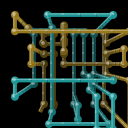
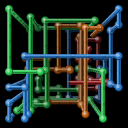
3d_pipes: brighter front pipes, new pipes until 50% full and fade between when starting fresh

diff --git a/3d_pipes/__init__.py b/3d_pipes/__init__.py
@@ -19,12 +19,27 @@ yaw_cos = math.cos(math.radians(yaw))
 pitch_sin = math.sin(math.radians(pitch))
 pitch_cos = math.cos(math.radians(pitch))
 
-SIZE = grid
 centre = (grid - 1) / 2
 NUM_PIPES = 2
 
-cx = screen.width / 2
-cy = screen.height / 2
+# how far the front and back of the grid are from the camera, for dimming
+near_depth = cam_dist - centre
+far_depth = cam_dist + centre
+FRONT_BRIGHTNESS = 0.8  # nearest pipes
+BACK_BRIGHTNESS = 0.28  # furthest pipes
+SHADOW_BRIGHTNESS = 0.5  # shadow edge, as a share of the pipe's own brightness
+
+FULL_CELLS = int(grid ** 3 * 0.5)  # fade out and start again once this many cells are used
+FADE_MS = 1000
+FADE_PEN = color.rgb(0, 0, 0, 40)  # drawn over the last frame each step, so it builds up
+fade_started = None  # ticks_ms when the fade began, None while pipes are growing
+
+screen_centre_x = screen.width / 2
+screen_centre_y = screen.height / 2
+
+TURN_ODDS = 6  # one step in this many heads off in a random direction
+PIPE_WIDTH = 4
+JOINT_RADIUS = 4
 
 
 PALETTE = [
@@ -49,14 +64,15 @@ pipes = []
 
 
 def new_pipe():
-    taken = [p[3] for p in pipes]
-    colour = choice([c for c in PALETTE if c not in taken])
+    taken = [pipe[3] for pipe in pipes]
+    colour = choice([palette_colour for palette_colour in PALETTE if palette_colour not in taken])
     while True:
         pos = (randint(0, grid - 1), randint(0, grid - 1), randint(0, grid - 1))
         if pos not in used_cells:
             break
-    pipes.append([pos, choice(directions), transform_points(pos[0] - centre, pos[1] - centre, pos[2] - centre), colour])
     used_cells.add(pos)
+    # a pipe is [head cell, direction, head's (screen x, screen y, depth), colour]
+    return [pos, choice(directions), transform_points(pos[0] - centre, pos[1] - centre, pos[2] - centre), colour]
 
 
 def can_move(x, y, z):
@@ -67,73 +83,82 @@ def can_move(x, y, z):
 
 def transform_points(x, y, z):
 
-    rx = x * yaw_cos - z * yaw_sin
-    rz = x * yaw_sin + z * yaw_cos
+    yawed_x = x * yaw_cos - z * yaw_sin
+    yawed_z = x * yaw_sin + z * yaw_cos
 
-    ry = y * pitch_cos - rz * pitch_sin
-    rz2 = y * pitch_sin + rz * pitch_cos
+    pitched_y = y * pitch_cos - yawed_z * pitch_sin
+    pitched_z = y * pitch_sin + yawed_z * pitch_cos
 
-    depth = rz2 + cam_dist
+    depth = pitched_z + cam_dist
 
-    sx = cx + zoom * rx / depth
-    sy = cy - zoom * ry / depth
+    screen_x = screen_centre_x + zoom * yawed_x / depth
+    screen_y = screen_centre_y - zoom * pitched_y / depth
 
-    return sx, sy, depth
+    return screen_x, screen_y, depth
 
 
 def step(pipe):
 
     last_dir = pipe[1]
-    changed_dir = False
 
-    # check if we can keep going in the direction we're currently heading in.
-    hx, hy, hz = pipe[0]
-    dx, dy, dz = pipe[1] if randint(0, 5) != 0 else choice(directions)
-    next_cell = (hx + dx, hy + dy, hz + dz)
+    # carry on the way the pipe's heading, apart from the odd random turn
+    head_x, head_y, head_z = pipe[0]
+    step_x, step_y, step_z = pipe[1] if randint(0, TURN_ODDS - 1) != 0 else choice(directions)
+    next_cell = (head_x + step_x, head_y + step_y, head_z + step_z)
     valid = can_move(*next_cell)
 
-    # if the moving in the same dir is not valid
-    # pick one of the free directions at random
+    # that cell's taken or off the grid, so pick one of the free directions at random
     if not valid:
-        free = [d for d in directions if can_move(hx + d[0], hy + d[1], hz + d[2])]
+        free = [direction for direction in directions if can_move(head_x + direction[0], head_y + direction[1], head_z + direction[2])]
         valid = bool(free)
         if valid:
             direction = choice(free)
-            next_cell = (hx + direction[0], hy + direction[1], hz + direction[2])
+            next_cell = (head_x + direction[0], head_y + direction[1], head_z + direction[2])
             pipe[1] = direction
             pipe[0] = next_cell
     else:
         pipe[0] = next_cell
-        pipe[1] = (dx, dy, dz)
+        pipe[1] = (step_x, step_y, step_z)
 
     if valid:
-        x, y, z = transform_points(next_cell[0] - centre, next_cell[1] - centre, next_cell[2] - centre)
+        screen_x, screen_y, depth = transform_points(next_cell[0] - centre, next_cell[1] - centre, next_cell[2] - centre)
 
         # reuse the previous point instead of transforming it again
-        px, py, _ = pipe[2]
+        prev_x, prev_y, _ = pipe[2]
 
         changed_dir = (last_dir != pipe[1])
 
-        depth_norm = (z - SIZE / 4) / (cam_dist * 2 - SIZE)
-        brightness = (1 - depth_norm) * 255
+        depth_norm = (depth - near_depth) / (far_depth - near_depth)
+        brightness = (FRONT_BRIGHTNESS - depth_norm * (FRONT_BRIGHTNESS - BACK_BRIGHTNESS)) * 255
         brightness = min(max(0, brightness), 255)
 
-        # extend the highlight by a small amount
-        ex = (x - px) * 0.10
-        ey = (y - py) * 0.10
+        # highlight and shadow sit 1px off the middle, so they stop short of the next segment.
+        # stretch them 10% past each end to close the gap
+        overhang_x = (screen_x - prev_x) * 0.10
+        overhang_y = (screen_y - prev_y) * 0.10
 
-        r, g, b = pipe[3]
-        colour = color.rgb(r * brightness, g * brightness, b * brightness)
+        red, green, blue = pipe[3]
+        colour = color.rgb(red * brightness, green * brightness, blue * brightness)
+        shade = brightness * SHADOW_BRIGHTNESS
+        shadow_colour = color.rgb(red * shade, green * shade, blue * shade)
 
-        sort_key = (-z, next_cell)
-        body = shape.line(vec2(x, y), vec2(px, py), 4)
-        highlight = shape.line(vec2(px - 1 - ex, py - 1 - ey), vec2(x - 1 + ex, y - 1 + ey), 1)
-        joint = (shape.circle(px, py, 4), shape.circle(px - 1, py - 1, 2)) if changed_dir else None
-        cell = (colour, body, highlight, joint)
+        # next_cell breaks depth ties, so insort never has to compare the shapes
+        sort_key = (-depth, next_cell)
+        body = shape.line(vec2(screen_x, screen_y), vec2(prev_x, prev_y), PIPE_WIDTH)
+        # light comes from the top left, so the shadow sits opposite the highlight
+        shadow = shape.line(vec2(prev_x + 1 - overhang_x, prev_y + 1 - overhang_y), vec2(screen_x + 1 + overhang_x, screen_y + 1 + overhang_y), 1)
+        highlight = shape.line(vec2(prev_x - 1 - overhang_x, prev_y - 1 - overhang_y), vec2(screen_x - 1 + overhang_x, screen_y - 1 + overhang_y), 1)
+        # (shadow ball, body ball nudged up left so a dark crescent shows, highlight)
+        joint = None
+        if changed_dir:
+            joint = (shape.circle(prev_x, prev_y, JOINT_RADIUS),
+                     shape.circle(prev_x - 0.5, prev_y - 0.5, JOINT_RADIUS - 0.5),
+                     shape.circle(prev_x - 1, prev_y - 1, JOINT_RADIUS / 2))
+        cell = (colour, shadow_colour, body, shadow, highlight, joint)
 
         used_cells.add(next_cell)
         insort(render_list, (sort_key, cell))
-        pipe[2] = (x, y, z)
+        pipe[2] = (screen_x, screen_y, depth)
 
     # return whether or not a valid dir was found
     # if not, we'll create a new pipe in the update func
@@ -142,41 +167,53 @@ def step(pipe):
 
 # create the initial pipes
 for _ in range(NUM_PIPES):
-    new_pipe()
+    pipes.append(new_pipe())
 
 
 def update():
-    global last
+    global last, fade_started
 
     if last is None or time.ticks_diff(time.ticks_ms(), last) >= FRAME_TARGET:
         last = time.ticks_ms()
 
+        # grid's full, so darken what's on screen a bit more each step, then start again
+        if fade_started is not None:
+            if time.ticks_diff(last, fade_started) < FADE_MS:
+                screen.pen = FADE_PEN
+                screen.clear()
+                return
+            fade_started = None
+            used_cells.clear()
+            render_list.clear()
+            pipes.clear()
+            for _ in range(NUM_PIPES):
+                pipes.append(new_pipe())
+
         screen.pen = color.rgb(0, 0, 0)
         screen.clear()
 
-        for pipe in pipes:
+        # a boxed in pipe stops where it is and a new one starts somewhere free
+        for index, pipe in enumerate(pipes):
             if not step(pipe):
-                used_cells.clear()
-                render_list.clear()
-                pipes.clear()
-                for _ in range(NUM_PIPES):
-                    new_pipe()
-                break
+                pipes[index] = new_pipe()
 
-        # store some of the functions locally for loop performance +.
+        if len(used_cells) >= FULL_CELLS:
+            fade_started = last
+
+        # a local is quicker to look up than screen.shape in the loop
         draw = screen.shape
 
-        # drawing
-        for _, (colour, body, highlight, joint) in render_list:
+        for _, (colour, shadow_colour, body, shadow, highlight, joint) in render_list:
             screen.pen = colour
             draw(body)
+            screen.pen = shadow_colour
+            draw(shadow)
             if joint:
                 draw(joint[0])
-                screen.pen = HIGHLIGHT
+                screen.pen = colour
                 draw(joint[1])
+                screen.pen = HIGHLIGHT
+                draw(joint[2])
 
-            # highlight colour
             screen.pen = HIGHLIGHT
-
-            # draw the highlight
             draw(highlight)
